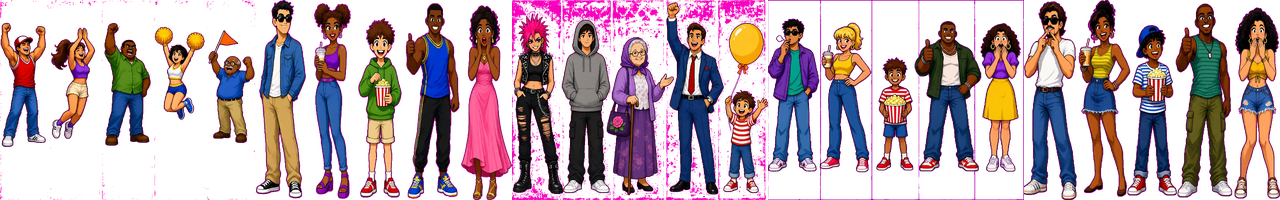
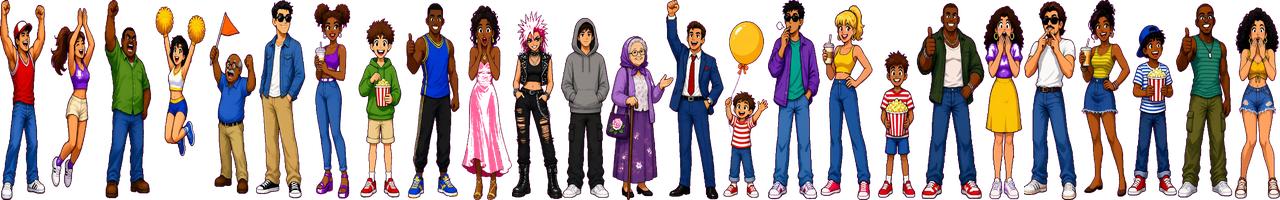
FIX VISUAL: as folhas novas tem fundo MAGENTA (chroma-key) e o flood-fill falhava — a media da borda ficava poluida pelos personagens que preenchem a celula. Recorte tudo com chroma-key direto no magenta: Jess (sprite + atlas), Pitoco, fauna (8 especies) e torcida. Jess agora renderiza limpa (1690px

diff --git a/index.html b/index.html
@@ -22,9 +22,9 @@
     })().catch((error) => console.warn('Cache cleanup failed:', error));
   </script>
   <link rel="icon" type="image/png" href="assets/share/favicon.png" />
-  <link rel="stylesheet" href="css/style.css?v=v40-jess" />
-  <link rel="stylesheet" href="css/account.css?v=v40-jess" />
-  <link rel="stylesheet" href="css/mobile.css?v=v40-jess" />
+  <link rel="stylesheet" href="css/style.css?v=v41-jessfix" />
+  <link rel="stylesheet" href="css/account.css?v=v41-jessfix" />
+  <link rel="stylesheet" href="css/mobile.css?v=v41-jessfix" />
 </head>
 <body>
   <div id="loader" role="status" aria-live="polite">
@@ -75,13 +75,13 @@
 
     <section class="screen" id="scr-menu" data-screen="menu">
       <div class="menu-bg"></div>
-      <img class="menu-skin" id="skin-natal" alt="" src="assets/ui/skin-natal.png?v=v40-jess" />
-      <img class="menu-skin" id="skin-halloween" alt="" src="assets/ui/skin-halloween.png?v=v40-jess" />
-      <img class="menu-skin" id="skin-carnaval" alt="" src="assets/ui/skin-carnaval.png?v=v40-jess" />
-      <img class="menu-skin" id="skin-pascoa" alt="" src="assets/ui/skin-pascoa.png?v=v40-jess" />
-      <img class="menu-skin" id="skin-junina" alt="" src="assets/ui/skin-junina.png?v=v40-jess" />
-      <img class="menu-skin" id="skin-criancas" alt="" src="assets/ui/skin-criancas.png?v=v40-jess" />
-      <img class="menu-skin" id="skin-anonovo" alt="" src="assets/ui/skin-anonovo.png?v=v40-jess" />
+      <img class="menu-skin" id="skin-natal" alt="" src="assets/ui/skin-natal.png?v=v41-jessfix" />
+      <img class="menu-skin" id="skin-halloween" alt="" src="assets/ui/skin-halloween.png?v=v41-jessfix" />
+      <img class="menu-skin" id="skin-carnaval" alt="" src="assets/ui/skin-carnaval.png?v=v41-jessfix" />
+      <img class="menu-skin" id="skin-pascoa" alt="" src="assets/ui/skin-pascoa.png?v=v41-jessfix" />
+      <img class="menu-skin" id="skin-junina" alt="" src="assets/ui/skin-junina.png?v=v41-jessfix" />
+      <img class="menu-skin" id="skin-criancas" alt="" src="assets/ui/skin-criancas.png?v=v41-jessfix" />
+      <img class="menu-skin" id="skin-anonovo" alt="" src="assets/ui/skin-anonovo.png?v=v41-jessfix" />
       <div class="menu-fx" id="fx-natal"></div>
       <div class="menu-fx" id="fx-halloween"></div>
       <img class="logo small" src="assets/ui/logo.png" alt="DS Fighters" />
@@ -411,7 +411,7 @@
     </div>
   </div>
 
-  <script src="assets/sprites/layout.js?v=v40-jess"></script>
+  <script src="assets/sprites/layout.js?v=v41-jessfix"></script>
   <script>
     /* Blindagem contra layout.js velho em cache: os arquivos de dados
        (fighters-v7..v11) escrevem em SPRITE_LAYOUT.files / .perFighter,
@@ -435,76 +435,76 @@
       }
     })();
   </script>
-  <script src="assets/stages/sheets.js?v=v40-jess"></script>
-  <script src="assets/maps/anim.js?v=v40-jess"></script>
-  <script src="js/data/achievements.js?v=v40-jess"></script>
-  <script src="js/core/profile.js?v=v40-jess"></script>
-  <script src="js/config/firebase-config.js?v=v40-jess"></script>
-  <script src="js/core/cloud.js?v=v40-jess"></script>
-  <script src="js/config/supabase-config.js?v=v40-jess"></script>
+  <script src="assets/stages/sheets.js?v=v41-jessfix"></script>
+  <script src="assets/maps/anim.js?v=v41-jessfix"></script>
+  <script src="js/data/achievements.js?v=v41-jessfix"></script>
+  <script src="js/core/profile.js?v=v41-jessfix"></script>
+  <script src="js/config/firebase-config.js?v=v41-jessfix"></script>
+  <script src="js/core/cloud.js?v=v41-jessfix"></script>
+  <script src="js/config/supabase-config.js?v=v41-jessfix"></script>
   <script src="js/vendor/supabase-2.118.0.js"></script>
-  <script src="js/core/supabase-cloud.js?v=v40-jess"></script>
-  <script src="js/data/fighters.js?v=v40-jess"></script>
-  <script src="js/data/fighters-v10.js?v=v40-jess"></script>
-  <script src="js/data/fighters-v11.js?v=v40-jess"></script>
-  <script src="js/data/powers.js?v=v40-jess"></script>
-  <script src="js/data/powers-turbo.js?v=v40-jess"></script>
-  <script src="js/data/powers-v4.js?v=v40-jess"></script>
-  <script src="js/data/powers-v5.js?v=v40-jess"></script>
-  <script src="js/data/powers-v6.js?v=v40-jess"></script>
-  <script src="js/data/powers-balance-v6.js?v=v40-jess"></script>
-  <script src="js/data/powers-v7.js?v=v40-jess"></script>
-  <script src="js/data/powers-v8.js?v=v40-jess"></script>
-  <script src="js/data/powers-v9.js?v=v40-jess"></script>
-  <script src="js/data/powers-v10.js?v=v40-jess"></script>
-  <script src="js/data/powers-v11.js?v=v40-jess"></script>
-    <script src="js/data/fighters-v12.js?v=v40-jess"></script>
-    <script src="js/data/fighters-v13.js?v=v40-jess"></script>
-    <script src="js/data/fighters-v14.js?v=v40-jess"></script>
-    <script src="js/data/fighters-v15.js?v=v40-jess"></script>
-    <script src="js/data/fighters-v16.js?v=v40-jess"></script>
-    <script src="js/data/fighters-v17.js?v=v40-jess"></script>
-  <script src="js/data/fighters-v18.js?v=v40-jess"></script>
-  <script src="js/data/fighters-v19.js?v=v40-jess"></script>
-  <script src="js/data/fighters-v20.js?v=v40-jess"></script>
-  <script src="js/data/powers-balance-v7.js?v=v40-jess"></script>
-  <script src="js/data/powers-balance-v8.js?v=v40-jess"></script>
-  <script src="js/data/powers-balance-v9.js?v=v40-jess"></script>
-  <script src="js/data/powers-balance-v10.js?v=v40-jess"></script>
-  <script src="js/data/powers-balance-v11.js?v=v40-jess"></script>
-  <script src="js/data/powers-balance-v12.js?v=v40-jess"></script>
-  <script src="js/data/powers-balance-v13.js?v=v40-jess"></script>
-  <script src="js/data/fighters-pack.js?v=v40-jess"></script>
-  <script src="js/data/fighters-henrico.js?v=v40-jess"></script>
-  <script src="js/data/fighters-jess.js?v=v40-jess"></script>
-  <script src="js/data/pets.js?v=v40-jess"></script>
-  <script src="js/data/stages.js?v=v40-jess"></script>
-  <script src="js/data/stages-v21.js?v=v40-jess"></script>
-  <script src="js/data/events.js?v=v40-jess"></script>
-  <script src="js/data/stages-events.js?v=v40-jess"></script>
-  <script src="js/data/stages-brasil.js?v=v40-jess"></script>
-  <script src="js/engine/sprites.js?v=v40-jess"></script>
-  <script src="js/engine/fx.js?v=v40-jess"></script>
-  <script src="js/data/voice-book.js?v=v40-jess"></script>
-  <script src="js/engine/audio.js?v=v40-jess"></script>
-  <script src="js/engine/input.js?v=v40-jess"></script>
-  <script src="js/ui/viewport.js?v=v40-jess"></script>
-  <script src="js/engine/projectile.js?v=v40-jess"></script>
-  <script src="js/engine/fighter.js?v=v40-jess"></script>
-  <script src="js/engine/vfx.js?v=v40-jess"></script>
-  <script src="js/engine/weather.js?v=v40-jess"></script>
-  <script src="js/engine/mechanics.js?v=v40-jess"></script>
-  <script src="js/engine/stage.js?v=v40-jess"></script>
-  <script src="js/engine/ai.js?v=v40-jess"></script>
-  <script src="js/engine/game.js?v=v40-jess"></script>
+  <script src="js/core/supabase-cloud.js?v=v41-jessfix"></script>
+  <script src="js/data/fighters.js?v=v41-jessfix"></script>
+  <script src="js/data/fighters-v10.js?v=v41-jessfix"></script>
+  <script src="js/data/fighters-v11.js?v=v41-jessfix"></script>
+  <script src="js/data/powers.js?v=v41-jessfix"></script>
+  <script src="js/data/powers-turbo.js?v=v41-jessfix"></script>
+  <script src="js/data/powers-v4.js?v=v41-jessfix"></script>
+  <script src="js/data/powers-v5.js?v=v41-jessfix"></script>
+  <script src="js/data/powers-v6.js?v=v41-jessfix"></script>
+  <script src="js/data/powers-balance-v6.js?v=v41-jessfix"></script>
+  <script src="js/data/powers-v7.js?v=v41-jessfix"></script>
+  <script src="js/data/powers-v8.js?v=v41-jessfix"></script>
+  <script src="js/data/powers-v9.js?v=v41-jessfix"></script>
+  <script src="js/data/powers-v10.js?v=v41-jessfix"></script>
+  <script src="js/data/powers-v11.js?v=v41-jessfix"></script>
+    <script src="js/data/fighters-v12.js?v=v41-jessfix"></script>
+    <script src="js/data/fighters-v13.js?v=v41-jessfix"></script>
+    <script src="js/data/fighters-v14.js?v=v41-jessfix"></script>
+    <script src="js/data/fighters-v15.js?v=v41-jessfix"></script>
+    <script src="js/data/fighters-v16.js?v=v41-jessfix"></script>
+    <script src="js/data/fighters-v17.js?v=v41-jessfix"></script>
+  <script src="js/data/fighters-v18.js?v=v41-jessfix"></script>
+  <script src="js/data/fighters-v19.js?v=v41-jessfix"></script>
+  <script src="js/data/fighters-v20.js?v=v41-jessfix"></script>
+  <script src="js/data/powers-balance-v7.js?v=v41-jessfix"></script>
+  <script src="js/data/powers-balance-v8.js?v=v41-jessfix"></script>
+  <script src="js/data/powers-balance-v9.js?v=v41-jessfix"></script>
+  <script src="js/data/powers-balance-v10.js?v=v41-jessfix"></script>
+  <script src="js/data/powers-balance-v11.js?v=v41-jessfix"></script>
+  <script src="js/data/powers-balance-v12.js?v=v41-jessfix"></script>
+  <script src="js/data/powers-balance-v13.js?v=v41-jessfix"></script>
+  <script src="js/data/fighters-pack.js?v=v41-jessfix"></script>
+  <script src="js/data/fighters-henrico.js?v=v41-jessfix"></script>
+  <script src="js/data/fighters-jess.js?v=v41-jessfix"></script>
+  <script src="js/data/pets.js?v=v41-jessfix"></script>
+  <script src="js/data/stages.js?v=v41-jessfix"></script>
+  <script src="js/data/stages-v21.js?v=v41-jessfix"></script>
+  <script src="js/data/events.js?v=v41-jessfix"></script>
+  <script src="js/data/stages-events.js?v=v41-jessfix"></script>
+  <script src="js/data/stages-brasil.js?v=v41-jessfix"></script>
+  <script src="js/engine/sprites.js?v=v41-jessfix"></script>
+  <script src="js/engine/fx.js?v=v41-jessfix"></script>
+  <script src="js/data/voice-book.js?v=v41-jessfix"></script>
+  <script src="js/engine/audio.js?v=v41-jessfix"></script>
+  <script src="js/engine/input.js?v=v41-jessfix"></script>
+  <script src="js/ui/viewport.js?v=v41-jessfix"></script>
+  <script src="js/engine/projectile.js?v=v41-jessfix"></script>
+  <script src="js/engine/fighter.js?v=v41-jessfix"></script>
+  <script src="js/engine/vfx.js?v=v41-jessfix"></script>
+  <script src="js/engine/weather.js?v=v41-jessfix"></script>
+  <script src="js/engine/mechanics.js?v=v41-jessfix"></script>
+  <script src="js/engine/stage.js?v=v41-jessfix"></script>
+  <script src="js/engine/ai.js?v=v41-jessfix"></script>
+  <script src="js/engine/game.js?v=v41-jessfix"></script>
   <script src="js/vendor/peerjs.min.js"></script>
-  <script src="js/net/room-core.js?v=v40-jess"></script>
-  <script src="js/net/online.js?v=v40-jess"></script>
-  <script src="js/ui/hud.js?v=v40-jess"></script>
-  <script src="js/data/roster-portraits.js?v=v40-jess"></script>
-  <script src="js/ui/ui.js?v=v40-jess"></script>
-  <script src="js/ui/account.js?v=v40-jess"></script>
-  <script src="js/main.js?v=v40-jess"></script>
-  <script src="js/net/tournament.js?v=v40-jess"></script>
+  <script src="js/net/room-core.js?v=v41-jessfix"></script>
+  <script src="js/net/online.js?v=v41-jessfix"></script>
+  <script src="js/ui/hud.js?v=v41-jessfix"></script>
+  <script src="js/data/roster-portraits.js?v=v41-jessfix"></script>
+  <script src="js/ui/ui.js?v=v41-jessfix"></script>
+  <script src="js/ui/account.js?v=v41-jessfix"></script>
+  <script src="js/main.js?v=v41-jessfix"></script>
+  <script src="js/net/tournament.js?v=v41-jessfix"></script>
 </body>
 </html>

diff --git a/js/ui/ui.js b/js/ui/ui.js
@@ -80,6 +80,7 @@ const UI = {
       if (typeof Profile !== 'undefined' && Profile.unlockPitoco && Profile.unlockPitoco()) {
         UI.toast('\u{1F415} PITOCO DESBLOQUEADO!', 4200);
         AudioSys.voice('unlocked');
+        try { if (this.screen === 'custom') this.renderPets(); } catch (e) {}
       } else if (Profile.hasPitoco && Profile.hasPitoco()) {
         UI.toast('O cachorro ja te conhece.', 2200);
       }

diff --git a/js/engine/sprites.js b/js/engine/sprites.js
@@ -41,7 +41,7 @@ const SpriteGen = {
     const src = (SPRITE_LAYOUT.files || {})[id] || 'assets/sprites/' + id + '.png';
     // v=... serve pra invalidar cache: SEMPRE bump quando o PNG mudar.
     // v18-balance: rebalanceamento geral + cromo buff
-    return src + '?v=v36-pack3';
+    return src + '?v=v41-jessfix';
   },
   faceUrl(id) {
     return `assets/ui/face-${id}.png?v=spritefix-4x15b`;

diff --git a/js/engine/stage.js b/js/engine/stage.js
@@ -381,7 +381,7 @@ class StageRenderer {
     this.crowd = null;
     if (!this.def.torcida) return;
     this.crowdSheet = new Image();
-    this.crowdSheet.src = 'assets/fauna/torcida.png?v=v40-jess';
+    this.crowdSheet.src = 'assets/fauna/torcida.png?v=v41-jessfix';
     this.crowdHype = 0;
     this.crowd = [
       { row: 0, y: this.H * 0.30, scale: 0.55, speed: 0.9 },

diff --git a/js/data/roster-portraits.js b/js/data/roster-portraits.js
@@ -378,8 +378,8 @@ const ROSTER_PORTRAITS = {
       "frame": "idle-0"
     },
     "jess": {
-      "x": 91,
-      "y": 55,
+      "x": 58,
+      "y": 124,
       "side": 136,
       "source": "assets/sprites/jess.png",
       "frame": "idle-0"
